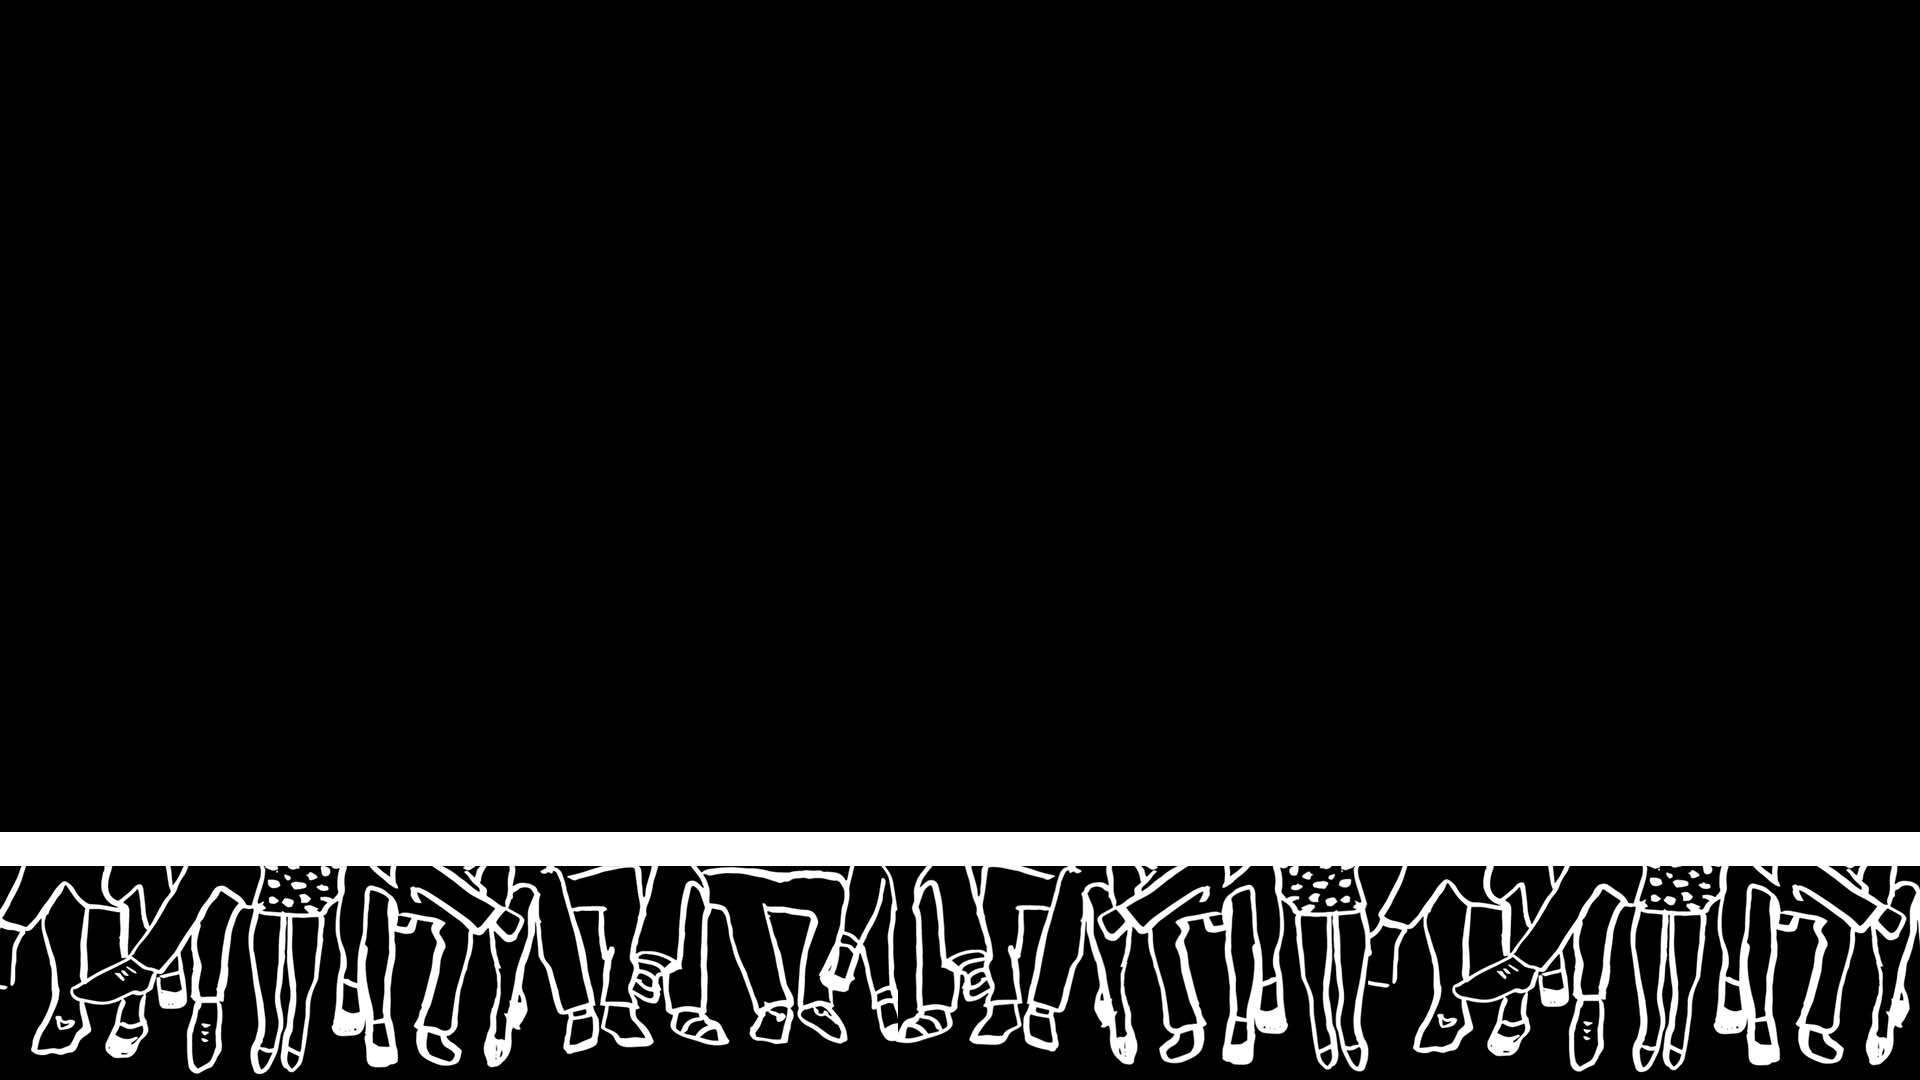
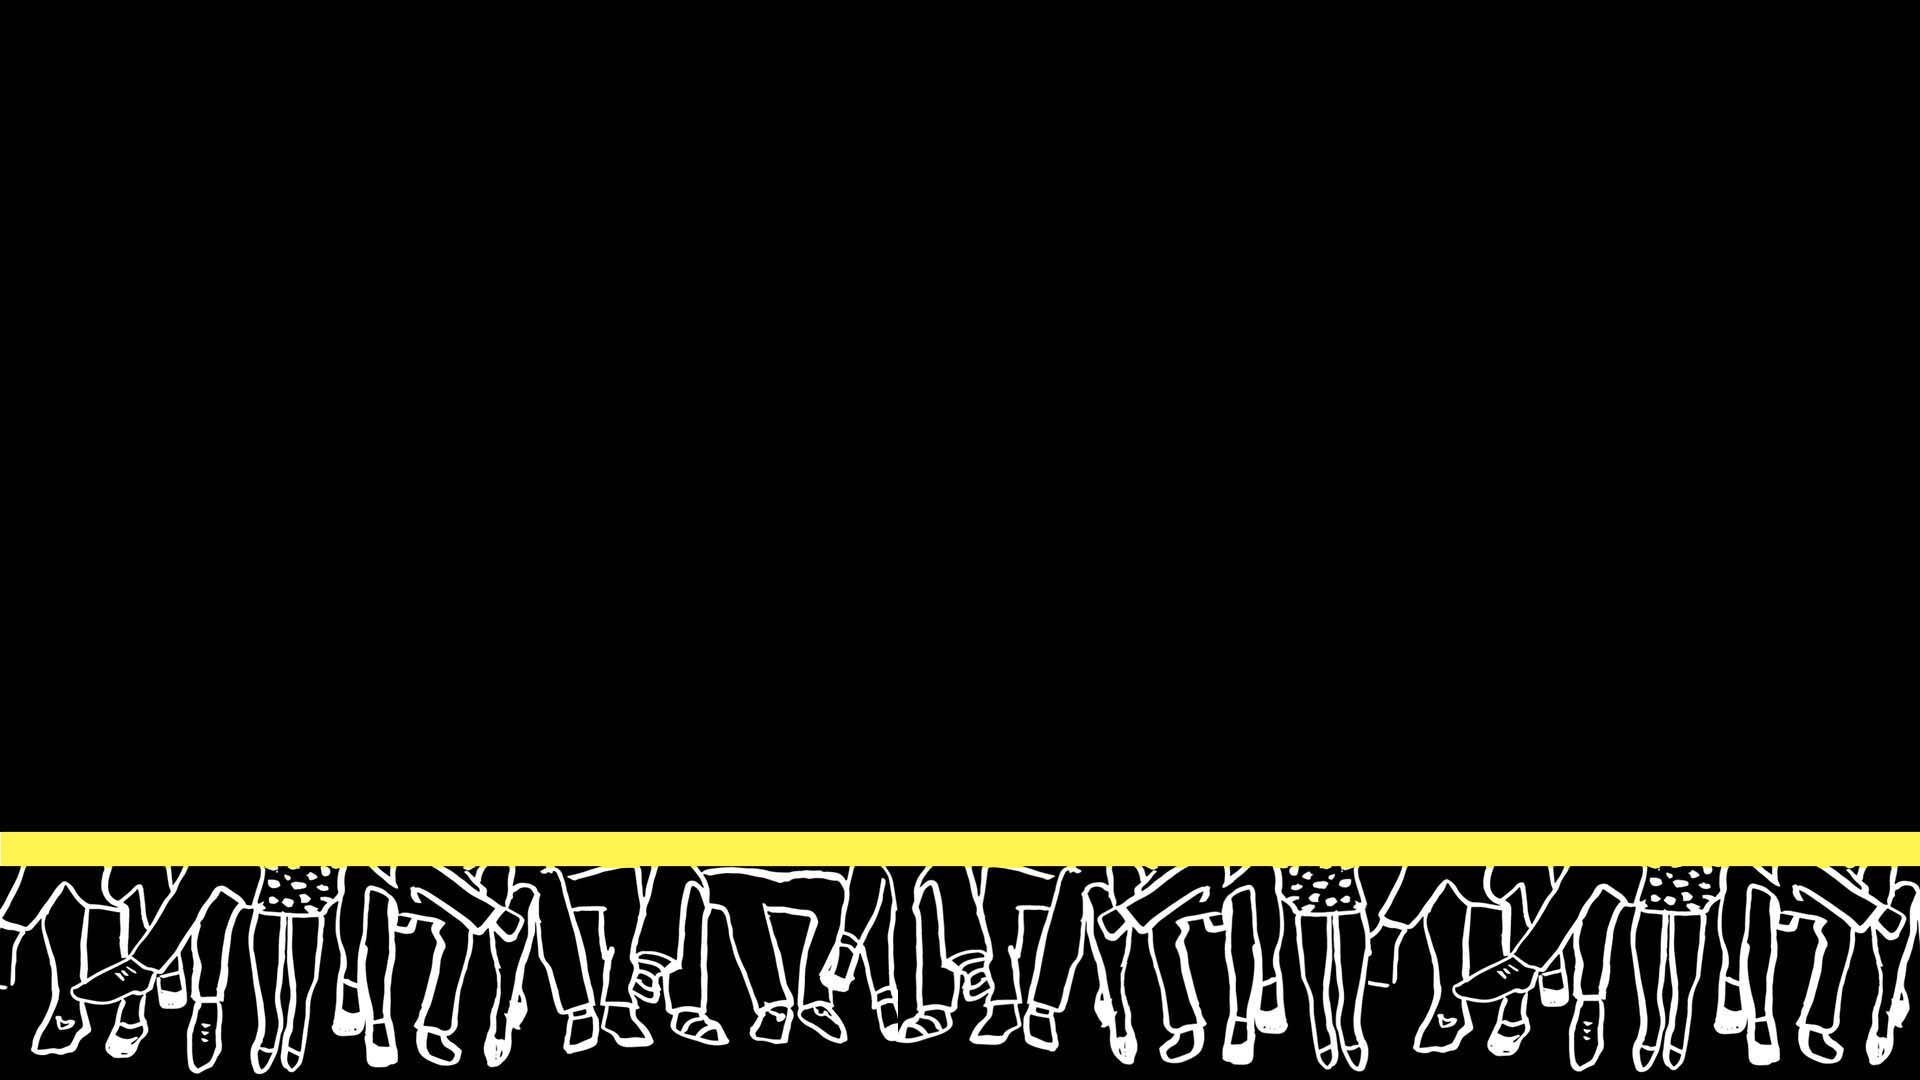
background color changed

Changed region(s): [[0.0, 0.7639, 1.0, 0.825]]

diff --git a/CSS/main.css b/CSS/main.css
@@ -40,6 +40,7 @@ span {
           flex-direction: column;
   background: no-repeat bottom url("../img/background.jpg");
   background-size: cover;
+  background-color: #FFF44F;
 }
 
 .part1 #logoP1 h2 {

diff --git a/CSS/main.scss b/CSS/main.scss
@@ -50,6 +50,7 @@ span {
     flex-direction: column;
     background: no-repeat bottom url("../img/background.jpg");
     background-size: cover;
+    background-color: color(three);
 
     #logoP1 {
 
